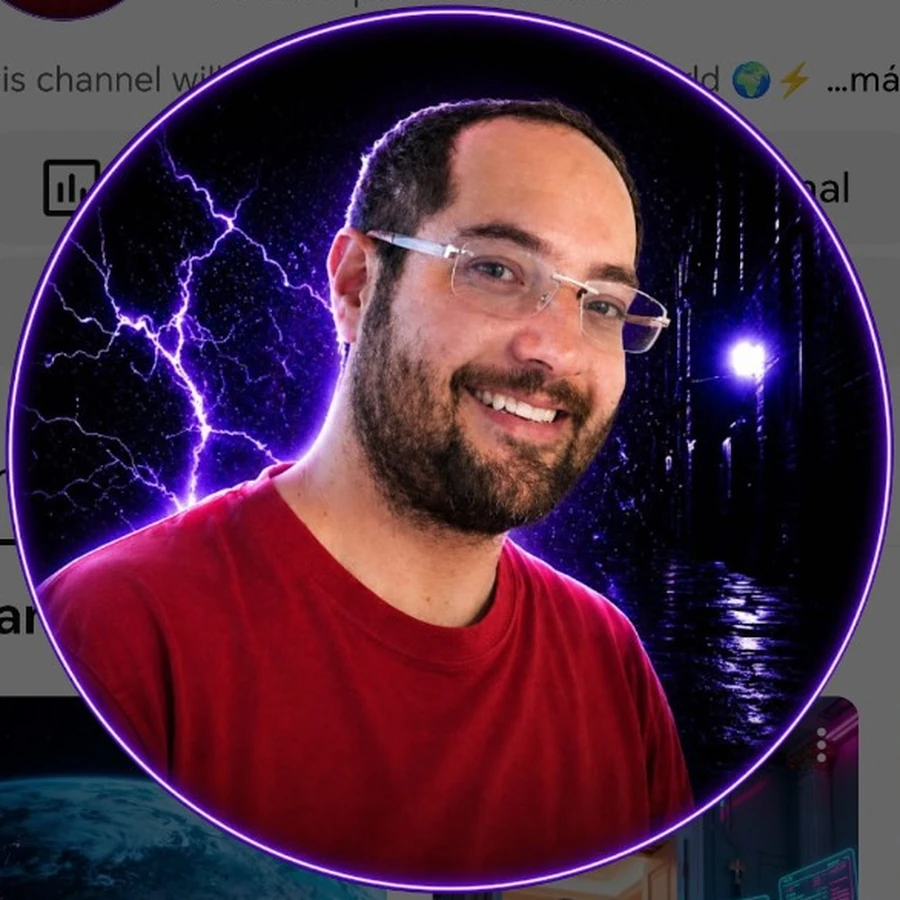
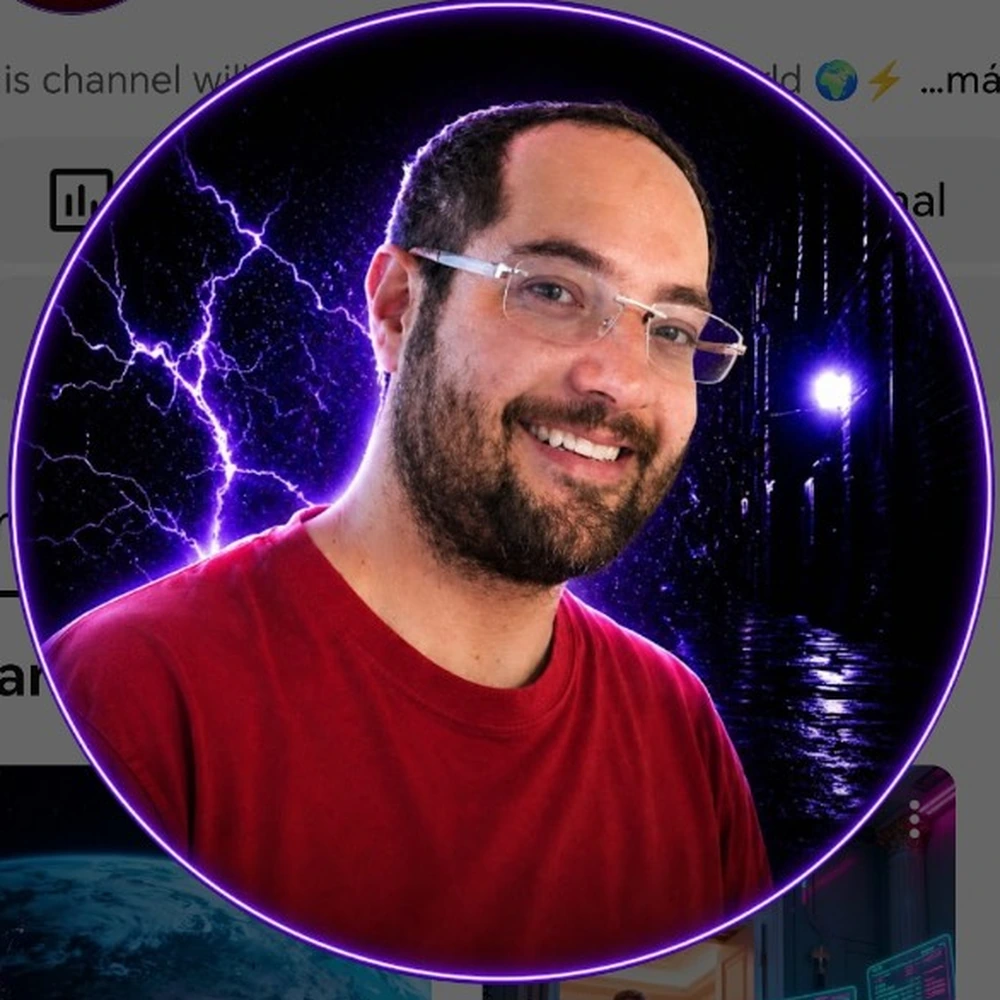
Add files via upload

diff --git a/assets/styles.css b/assets/styles.css
@@ -1,1 +1,84 @@
-*{box-sizing:border-box}html{scroll-behavior:smooth}body{margin:0;font-family:Inter,system-ui,-apple-system,BlinkMacSystemFont,"Segoe UI",sans-serif;background:#070b18;color:#eef5ff;line-height:1.65}a{color:inherit}.container{width:min(1160px,calc(100% - 36px));margin:auto}.skip-link{position:absolute;left:-9999px}.skip-link:focus{left:16px;top:16px;background:#fff;color:#07101f;padding:10px 14px;border-radius:10px;z-index:100}.site-header{position:sticky;top:0;z-index:40;background:rgba(7,11,24,.84);backdrop-filter:blur(18px);border-bottom:1px solid rgba(255,255,255,.08)}.nav-wrap{min-height:76px;display:flex;align-items:center;justify-content:space-between;gap:24px}.brand{display:flex;align-items:center;gap:11px;text-decoration:none;font-weight:900;font-size:1.15rem}.brand-mark{display:grid;place-items:center;width:40px;height:40px;border-radius:13px;background:linear-gradient(135deg,#6d28d9,#2563eb 55%,#22d3ee);box-shadow:0 10px 34px rgba(59,130,246,.35)}.nav{display:flex;align-items:center;gap:21px}.nav a{text-decoration:none;color:#c9d6eb;font-weight:700;font-size:.94rem}.nav a:hover{color:#fff}.menu-toggle{display:none;background:transparent;border:1px solid rgba(255,255,255,.18);color:#fff;border-radius:11px;padding:9px 13px}.hero{position:relative;overflow:hidden;padding:104px 0 82px;background:radial-gradient(circle at 85% 10%,rgba(109,40,217,.30),transparent 30%),radial-gradient(circle at 10% 20%,rgba(37,99,235,.25),transparent 28%),linear-gradient(180deg,#0a1230,#070b18)}.orb{position:absolute;border-radius:999px;filter:blur(28px);opacity:.5;pointer-events:none}.orb-one{width:260px;height:260px;background:#7c3aed;right:-70px;top:50px}.orb-two{width:220px;height:220px;background:#0284c7;left:-80px;bottom:20px}.hero-grid,.pricing-grid,.two-col,.founder-grid{display:grid;grid-template-columns:1.12fr .88fr;gap:58px;align-items:center}.eyebrow{display:inline-block;color:#8be9ff;font-weight:900;text-transform:uppercase;letter-spacing:.14em;font-size:.77rem;margin-bottom:15px}.hero h1{font-size:clamp(2.8rem,6.2vw,5.4rem);line-height:1.02;letter-spacing:-.055em;margin:0 0 24px;max-width:830px}.hero h1,.section h2,.cta h2{background:linear-gradient(135deg,#fff,#d7e7ff 70%,#8be9ff);-webkit-background-clip:text;background-clip:text;color:transparent}.lead,.section-intro{font-size:1.1rem;color:#b9c6da;max-width:760px}.actions{display:flex;flex-wrap:wrap;gap:14px;margin:29px 0}.button{display:inline-flex;align-items:center;justify-content:center;text-decoration:none;border:0;border-radius:999px;padding:15px 23px;background:linear-gradient(135deg,#16a34a,#22c55e);color:#fff;font-weight:900;box-shadow:0 14px 38px rgba(34,197,94,.22);cursor:pointer;transition:.2s ease}.button:hover{transform:translateY(-2px);filter:brightness(1.06)}.button-ghost{background:rgba(255,255,255,.03);border:1px solid rgba(255,255,255,.18);box-shadow:none}.button-small{padding:10px 17px}.button-full{width:100%}.trust-list{display:flex;flex-wrap:wrap;gap:10px 18px;padding:0;margin:28px 0 0;list-style:none;color:#d5e0f0}.trust-list li:before{content:"✓";color:#4ade80;font-weight:900;margin-right:7px}.hero-card,.price-card,.lead-form{position:relative;background:linear-gradient(180deg,rgba(255,255,255,.095),rgba(255,255,255,.035));border:1px solid rgba(255,255,255,.11);border-radius:30px;padding:30px;box-shadow:0 32px 90px rgba(0,0,0,.30);overflow:hidden}.product-glow{position:absolute;inset:8% 15% auto;height:220px;background:rgba(124,58,237,.36);filter:blur(46px);border-radius:999px}.product-image{position:relative;display:block;width:min(270px,80%);height:auto;margin:0 auto 18px;filter:drop-shadow(0 20px 35px rgba(0,0,0,.35))}.mini-label,.price-label{color:#8be9ff;font-weight:900}.hero-card h2{font-size:2rem;margin:8px 0 18px}.mini-grid{display:grid;grid-template-columns:1fr 1fr;gap:12px}.mini-grid div{padding:16px;border-radius:17px;background:rgba(255,255,255,.055);border:1px solid rgba(255,255,255,.05)}.mini-grid strong,.mini-grid span{display:block}.mini-grid span{color:#aebdd3;font-size:.88rem}.proof-strip{border-top:1px solid rgba(255,255,255,.06);border-bottom:1px solid rgba(255,255,255,.06);background:#091225}.proof-grid{display:grid;grid-template-columns:repeat(4,1fr);gap:1px}.proof-grid div{padding:24px;text-align:center}.proof-grid strong,.proof-grid span{display:block}.proof-grid strong{font-size:1.08rem}.proof-grid span{color:#93a4bc;font-size:.9rem}.section{padding:90px 0}.section-alt{background:#0a1223}.section h2{font-size:clamp(2.15rem,4.2vw,3.55rem);line-height:1.08;letter-spacing:-.045em;margin:0 0 20px}.cards{display:grid;gap:18px;margin-top:36px}.cards.four{grid-template-columns:repeat(4,1fr)}.card,.steps article{background:linear-gradient(180deg,#0d1a2e,#0a1426);border:1px solid rgba(255,255,255,.08);border-radius:23px;padding:25px;transition:.2s ease}.card:hover,.steps article:hover{transform:translateY(-4px);border-color:rgba(139,233,255,.28)}.card p,.steps p{color:#aebdd3;margin-bottom:0}.icon,.steps article>span{display:grid;place-items:center;width:44px;height:44px;border-radius:13px;background:linear-gradient(135deg,rgba(124,58,237,.24),rgba(34,211,238,.14));color:#8be9ff;font-weight:900;margin-bottom:18px}.steps{display:grid;grid-template-columns:repeat(4,1fr);gap:18px;margin-top:36px}.check-list{padding:0;list-style:none;display:grid;gap:13px}.check-list li{position:relative;padding-left:32px;color:#d4deed}.check-list li:before{content:"✓";position:absolute;left:0;color:#4ade80;font-weight:900}.price-card{text-align:center}.price{display:block;font-size:3.7rem;line-height:1;margin:17px 0}.price small{font-size:1rem}.price-card p,.price-card small{color:#b8c6dc}.payment-button{margin:19px 0 12px}.secondary-link{display:block;color:#8be9ff;margin-bottom:18px}.payment-note{display:grid;gap:4px;text-align:left;padding:16px;border-radius:16px;background:rgba(34,197,94,.07);border:1px solid rgba(74,222,128,.18);margin-bottom:18px}.payment-note span{color:#b8c6dc;font-size:.92rem}.country-tags{display:flex;flex-wrap:wrap;gap:10px;margin-top:24px}.country-tags span{padding:8px 12px;border-radius:999px;background:#10213a;border:1px solid rgba(255,255,255,.08);color:#cbd8ea}.lead-form{display:grid;gap:10px}.lead-form h3,.lead-form p{margin-bottom:0}.lead-form label{margin-top:7px;font-weight:800}.lead-form input,.lead-form select{width:100%;padding:14px 15px;border-radius:13px;border:1px solid rgba(255,255,255,.13);background:#081426;color:#fff;outline:none}.lead-form input:focus,.lead-form select:focus{border-color:#38bdf8;box-shadow:0 0 0 3px rgba(56,189,248,.12)}.lead-form option{color:#07101f}.lead-form small{color:#93a4bc}.founder-section{background:radial-gradient(circle at 15% 50%,rgba(124,58,237,.16),transparent 30%),#070b18}.founder-grid{grid-template-columns:.82fr 1.18fr}.founder-photo-wrap{display:grid;place-items:center}.photo-ring{padding:8px;border-radius:50%;background:linear-gradient(135deg,#a855f7,#2563eb,#22d3ee);box-shadow:0 0 60px rgba(124,58,237,.35)}.founder-photo{display:block;width:min(430px,100%);aspect-ratio:1;border-radius:50%;object-fit:cover;border:8px solid #080d1b}.founder-points{display:grid;gap:12px;margin:24px 0}.founder-points p{margin:0;padding:15px 17px;border-radius:16px;background:rgba(255,255,255,.04);border:1px solid rgba(255,255,255,.07);color:#b9c6da}.compact-actions{margin-bottom:0}.narrow{max-width:880px}.faq{display:grid;gap:12px;margin-top:30px}.faq details{background:#0d1a2e;border:1px solid rgba(255,255,255,.08);border-radius:17px;padding:18px 20px}.faq summary{cursor:pointer;font-weight:900}.faq p{color:#aebdd3}.cta{padding:76px 0;background:linear-gradient(135deg,#172554,#312e81 55%,#0f766e)}.cta-inner{display:flex;align-items:center;justify-content:space-between;gap:30px}.cta h2{font-size:clamp(2rem,4vw,3.4rem);margin:0 0 12px;max-width:720px}.cta p{color:#d4deed}.floating-whatsapp{position:fixed;right:20px;bottom:20px;z-index:50;display:grid;place-items:center;width:58px;height:58px;border-radius:50%;background:#22c55e;color:#fff;text-decoration:none;font-weight:900;box-shadow:0 15px 40px rgba(34,197,94,.32)}.footer{padding:36px 0;background:#050812}.footer-grid{display:flex;justify-content:space-between;gap:24px;align-items:center}.footer p{color:#8fa1ba}.footer-links{display:flex;flex-wrap:wrap;gap:18px}.footer-links a{color:#c8d5e7}@media(max-width:960px){.menu-toggle{display:block}.nav{display:none;position:absolute;top:76px;left:18px;right:18px;flex-direction:column;align-items:stretch;padding:18px;background:#0a1425;border:1px solid rgba(255,255,255,.1);border-radius:18px}.nav.open{display:flex}.hero-grid,.pricing-grid,.two-col,.founder-grid{grid-template-columns:1fr}.cards.four,.steps{grid-template-columns:1fr 1fr}.proof-grid{grid-template-columns:1fr 1fr}.founder-photo{width:min(360px,100%)}.cta-inner,.footer-grid{align-items:flex-start;flex-direction:column}}@media(max-width:620px){.hero{padding-top:74px}.hero h1{font-size:2.8rem}.cards.four,.steps,.proof-grid{grid-template-columns:1fr}.mini-grid{grid-template-columns:1fr 1fr}.actions{flex-direction:column}.button{width:100%}.price{font-size:3rem}.section{padding:70px 0}.hero-card,.price-card,.lead-form{padding:24px}.floating-whatsapp{width:54px;height:54px;right:15px;bottom:15px}}
+*{box-sizing:border-box}html{scroll-behavior:smooth}body{margin:0;font-family:Inter,system-ui,-apple-system,BlinkMacSystemFont,"Segoe UI",sans-serif;background:#070b18;color:#eef5ff;line-height:1.65}a{color:inherit}.container{width:min(1160px,calc(100% - 36px));margin:auto}.skip-link{position:absolute;left:-9999px}.skip-link:focus{left:16px;top:16px;background:#fff;color:#07101f;padding:10px 14px;border-radius:10px;z-index:100}.site-header{position:sticky;top:0;z-index:40;background:rgba(7,11,24,.84);backdrop-filter:blur(18px);border-bottom:1px solid rgba(255,255,255,.08)}.nav-wrap{min-height:76px;display:flex;align-items:center;justify-content:space-between;gap:24px}.brand{display:flex;align-items:center;gap:11px;text-decoration:none;font-weight:900;font-size:1.15rem}.brand-mark{display:grid;place-items:center;width:40px;height:40px;border-radius:13px;background:linear-gradient(135deg,#6d28d9,#2563eb 55%,#22d3ee);box-shadow:0 10px 34px rgba(59,130,246,.35)}.nav{display:flex;align-items:center;gap:21px}.nav a{text-decoration:none;color:#c9d6eb;font-weight:700;font-size:.94rem}.nav a:hover{color:#fff}.menu-toggle{display:none;background:transparent;border:1px solid rgba(255,255,255,.18);color:#fff;border-radius:11px;padding:9px 13px}.hero{position:relative;overflow:hidden;padding:104px 0 82px;background:radial-gradient(circle at 85% 10%,rgba(109,40,217,.30),transparent 30%),radial-gradient(circle at 10% 20%,rgba(37,99,235,.25),transparent 28%),linear-gradient(180deg,#0a1230,#070b18)}.orb{position:absolute;border-radius:999px;filter:blur(28px);opacity:.5;pointer-events:none}.orb-one{width:260px;height:260px;background:#7c3aed;right:-70px;top:50px}.orb-two{width:220px;height:220px;background:#0284c7;left:-80px;bottom:20px}.hero-grid,.pricing-grid,.two-col,.founder-grid{display:grid;grid-template-columns:1.12fr .88fr;gap:58px;align-items:center}.eyebrow{display:inline-block;color:#8be9ff;font-weight:900;text-transform:uppercase;letter-spacing:.14em;font-size:.77rem;margin-bottom:15px}.hero h1{font-size:clamp(2.8rem,6.2vw,5.4rem);line-height:1.02;letter-spacing:-.055em;margin:0 0 24px;max-width:830px}.hero h1,.section h2,.cta h2{background:linear-gradient(135deg,#fff,#d7e7ff 70%,#8be9ff);-webkit-background-clip:text;background-clip:text;color:transparent}.lead,.section-intro{font-size:1.1rem;color:#b9c6da;max-width:760px}.actions{display:flex;flex-wrap:wrap;gap:14px;margin:29px 0}.button{display:inline-flex;align-items:center;justify-content:center;text-decoration:none;border:0;border-radius:999px;padding:15px 23px;background:linear-gradient(135deg,#16a34a,#22c55e);color:#fff;font-weight:900;box-shadow:0 14px 38px rgba(34,197,94,.22);cursor:pointer;transition:.2s ease}.button:hover{transform:translateY(-2px);filter:brightness(1.06)}.button-ghost{background:rgba(255,255,255,.03);border:1px solid rgba(255,255,255,.18);box-shadow:none}.button-small{padding:10px 17px}.button-full{width:100%}.trust-list{display:flex;flex-wrap:wrap;gap:10px 18px;padding:0;margin:28px 0 0;list-style:none;color:#d5e0f0}.trust-list li:before{content:"✓";color:#4ade80;font-weight:900;margin-right:7px}.hero-card,.price-card,.lead-form{position:relative;background:linear-gradient(180deg,rgba(255,255,255,.095),rgba(255,255,255,.035));border:1px solid rgba(255,255,255,.11);border-radius:30px;padding:30px;box-shadow:0 32px 90px rgba(0,0,0,.30);overflow:hidden}.product-glow{position:absolute;inset:8% 15% auto;height:220px;background:rgba(124,58,237,.36);filter:blur(46px);border-radius:999px}.product-image{position:relative;display:block;width:min(270px,80%);height:auto;margin:0 auto 18px;filter:drop-shadow(0 20px 35px rgba(0,0,0,.35))}.mini-label,.price-label{color:#8be9ff;font-weight:900}.hero-card h2{font-size:2rem;margin:8px 0 18px}.mini-grid{display:grid;grid-template-columns:1fr 1fr;gap:12px}.mini-grid div{padding:16px;border-radius:17px;background:rgba(255,255,255,.055);border:1px solid rgba(255,255,255,.05)}.mini-grid strong,.mini-grid span{display:block}.mini-grid span{color:#aebdd3;font-size:.88rem}.proof-strip{border-top:1px solid rgba(255,255,255,.06);border-bottom:1px solid rgba(255,255,255,.06);background:#091225}.proof-grid{display:grid;grid-template-columns:repeat(4,1fr);gap:1px}.proof-grid div{padding:24px;text-align:center}.proof-grid strong,.proof-grid span{display:block}.proof-grid strong{font-size:1.08rem}.proof-grid span{color:#93a4bc;font-size:.9rem}.section{padding:90px 0}.section-alt{background:#0a1223}.section h2{font-size:clamp(2.15rem,4.2vw,3.55rem);line-height:1.08;letter-spacing:-.045em;margin:0 0 20px}.cards{display:grid;gap:18px;margin-top:36px}.cards.four{grid-template-columns:repeat(4,1fr)}.card,.steps article{background:linear-gradient(180deg,#0d1a2e,#0a1426);border:1px solid rgba(255,255,255,.08);border-radius:23px;padding:25px;transition:.2s ease}.card:hover,.steps article:hover{transform:translateY(-4px);border-color:rgba(139,233,255,.28)}.card p,.steps p{color:#aebdd3;margin-bottom:0}.icon,.steps article>span{display:grid;place-items:center;width:44px;height:44px;border-radius:13px;background:linear-gradient(135deg,rgba(124,58,237,.24),rgba(34,211,238,.14));color:#8be9ff;font-weight:900;margin-bottom:18px}.steps{display:grid;grid-template-columns:repeat(4,1fr);gap:18px;margin-top:36px}.check-list{padding:0;list-style:none;display:grid;gap:13px}.check-list li{position:relative;padding-left:32px;color:#d4deed}.check-list li:before{content:"✓";position:absolute;left:0;color:#4ade80;font-weight:900}.price-card{text-align:center}.price{display:block;font-size:3.7rem;line-height:1;margin:17px 0}.price small{font-size:1rem}.price-card p,.price-card small{color:#b8c6dc}.payment-button{margin:19px 0 12px}.secondary-link{display:block;color:#8be9ff;margin-bottom:18px}.payment-note{display:grid;gap:4px;text-align:left;padding:16px;border-radius:16px;background:rgba(34,197,94,.07);border:1px solid rgba(74,222,128,.18);margin-bottom:18px}.payment-note span{color:#b8c6dc;font-size:.92rem}.country-tags{display:flex;flex-wrap:wrap;gap:10px;margin-top:24px}.country-tags span{padding:8px 12px;border-radius:999px;background:#10213a;border:1px solid rgba(255,255,255,.08);color:#cbd8ea}.lead-form{display:grid;gap:10px}.lead-form h3,.lead-form p{margin-bottom:0}.lead-form label{margin-top:7px;font-weight:800}.lead-form input,.lead-form select{width:100%;padding:14px 15px;border-radius:13px;border:1px solid rgba(255,255,255,.13);background:#081426;color:#fff;outline:none}.lead-form input:focus,.lead-form select:focus{border-color:#38bdf8;box-shadow:0 0 0 3px rgba(56,189,248,.12)}.lead-form option{color:#07101f}.lead-form small{color:#93a4bc}.founder-section{background:radial-gradient(circle at 15% 50%,rgba(124,58,237,.16),transparent 30%),#070b18}.founder-grid{grid-template-columns:.82fr 1.18fr}.founder-points{display:grid;gap:12px;margin:24px 0}.founder-points p{margin:0;padding:15px 17px;border-radius:16px;background:rgba(255,255,255,.04);border:1px solid rgba(255,255,255,.07);color:#b9c6da}.compact-actions{margin-bottom:0}.narrow{max-width:880px}.faq{display:grid;gap:12px;margin-top:30px}.faq details{background:#0d1a2e;border:1px solid rgba(255,255,255,.08);border-radius:17px;padding:18px 20px}.faq summary{cursor:pointer;font-weight:900}.faq p{color:#aebdd3}.cta{padding:76px 0;background:linear-gradient(135deg,#172554,#312e81 55%,#0f766e)}.cta-inner{display:flex;align-items:center;justify-content:space-between;gap:30px}.cta h2{font-size:clamp(2rem,4vw,3.4rem);margin:0 0 12px;max-width:720px}.cta p{color:#d4deed}.floating-whatsapp{position:fixed;right:20px;bottom:20px;z-index:50;display:grid;place-items:center;width:58px;height:58px;border-radius:50%;background:#22c55e;color:#fff;text-decoration:none;font-weight:900;box-shadow:0 15px 40px rgba(34,197,94,.32)}.footer{padding:36px 0;background:#050812}.footer-grid{display:flex;justify-content:space-between;gap:24px;align-items:center}.footer p{color:#8fa1ba}.footer-links{display:flex;flex-wrap:wrap;gap:18px}.footer-links a{color:#c8d5e7}@media(max-width:960px){.menu-toggle{display:block}.nav{display:none;position:absolute;top:76px;left:18px;right:18px;flex-direction:column;align-items:stretch;padding:18px;background:#0a1425;border:1px solid rgba(255,255,255,.1);border-radius:18px}.nav.open{display:flex}.hero-grid,.pricing-grid,.two-col,.founder-grid{grid-template-columns:1fr}.cards.four,.steps{grid-template-columns:1fr 1fr}.proof-grid{grid-template-columns:1fr 1fr}.cta-inner,.footer-grid{align-items:flex-start;flex-direction:column}}@media(max-width:620px){.hero{padding-top:74px}.hero h1{font-size:2.8rem}.cards.four,.steps,.proof-grid{grid-template-columns:1fr}.mini-grid{grid-template-columns:1fr 1fr}.actions{flex-direction:column}.button{width:100%}.price{font-size:3rem}.section{padding:70px 0}.hero-card,.price-card,.lead-form{padding:24px}.floating-whatsapp{width:54px;height:54px;right:15px;bottom:15px}}
+
+/* Retrato del fundador: círculo real, tamaño controlado y sin deformaciones */
+.founder-photo-wrap{
+  display:flex;
+  justify-content:center;
+  align-items:center;
+  width:100%;
+}
+
+.founder-portrait-card{
+  margin:0;
+  width:min(420px,100%);
+  display:grid;
+  place-items:center;
+}
+
+.founder-portrait-ring{
+  width:clamp(280px,34vw,420px);
+  height:clamp(280px,34vw,420px);
+  aspect-ratio:1 / 1;
+  border-radius:50%;
+  padding:8px;
+  overflow:hidden;
+  background:linear-gradient(135deg,#a855f7 0%,#2563eb 55%,#22d3ee 100%);
+  box-shadow:
+    0 0 0 1px rgba(255,255,255,.08),
+    0 22px 70px rgba(37,99,235,.22),
+    0 0 50px rgba(168,85,247,.20);
+}
+
+.founder-portrait{
+  display:block;
+  width:100%;
+  height:100%;
+  max-width:none;
+  aspect-ratio:1 / 1;
+  border-radius:50%;
+  object-fit:cover;
+  object-position:center center;
+  border:7px solid #080d1b;
+}
+
+/* Asegura equilibrio visual con el texto en escritorio */
+.founder-grid{
+  grid-template-columns:minmax(320px,.82fr) minmax(0,1.18fr);
+  align-items:center;
+}
+
+@media(max-width:960px){
+  .founder-grid{
+    grid-template-columns:1fr;
+    gap:34px;
+  }
+
+  .founder-portrait-card{
+    width:100%;
+  }
+
+  .founder-portrait-ring{
+    width:min(320px,76vw);
+    height:min(320px,76vw);
+  }
+}
+
+@media(max-width:620px){
+  .founder-section{
+    padding-top:64px;
+  }
+
+  .founder-portrait-ring{
+    width:min(260px,72vw);
+    height:min(260px,72vw);
+    padding:6px;
+  }
+
+  .founder-portrait{
+    border-width:5px;
+  }
+
+  .founder-grid{
+    gap:28px;
+  }
+}

diff --git a/index.html b/index.html
@@ -13,8 +13,8 @@
   <meta property="og:image" content="https://mindshock.app/assets/kit-mindshock.webp">
   <link rel="canonical" href="https://mindshock.app/">
   <link rel="icon" href="assets/favicon.svg" type="image/svg+xml">
-  <link rel="preload" href="assets/styles.css" as="style">
-  <link rel="stylesheet" href="assets/styles.css">
+  <link rel="preload" href="assets/styles.css?v=20260711-2" as="style">
+  <link rel="stylesheet" href="assets/styles.css?v=20260711-2">
   <script type="application/ld+json">
   {
     "@context":"https://schema.org",
@@ -253,9 +253,11 @@
     <section class="section founder-section" id="fundador">
       <div class="container founder-grid">
         <div class="founder-photo-wrap">
-          <div class="photo-ring">
-            <img class="founder-photo" src="assets/david-rodriguez.webp" alt="Germán David Rodríguez Rodríguez, fundador de MindShock" width="900" height="900" loading="lazy">
-          </div>
+          <figure class="founder-portrait-card">
+            <div class="founder-portrait-ring">
+              <img class="founder-portrait" src="assets/david-rodriguez.webp?v=20260711-2" alt="Germán David Rodríguez Rodríguez, fundador de MindShock" width="1000" height="1000" loading="lazy">
+            </div>
+          </figure>
         </div>
 
         <div>
@@ -343,6 +345,6 @@
     </div>
   </footer>
 
-  <script src="assets/script.js"></script>
+  <script src="assets/script.js?v=20260711-2"></script>
 </body>
 </html>